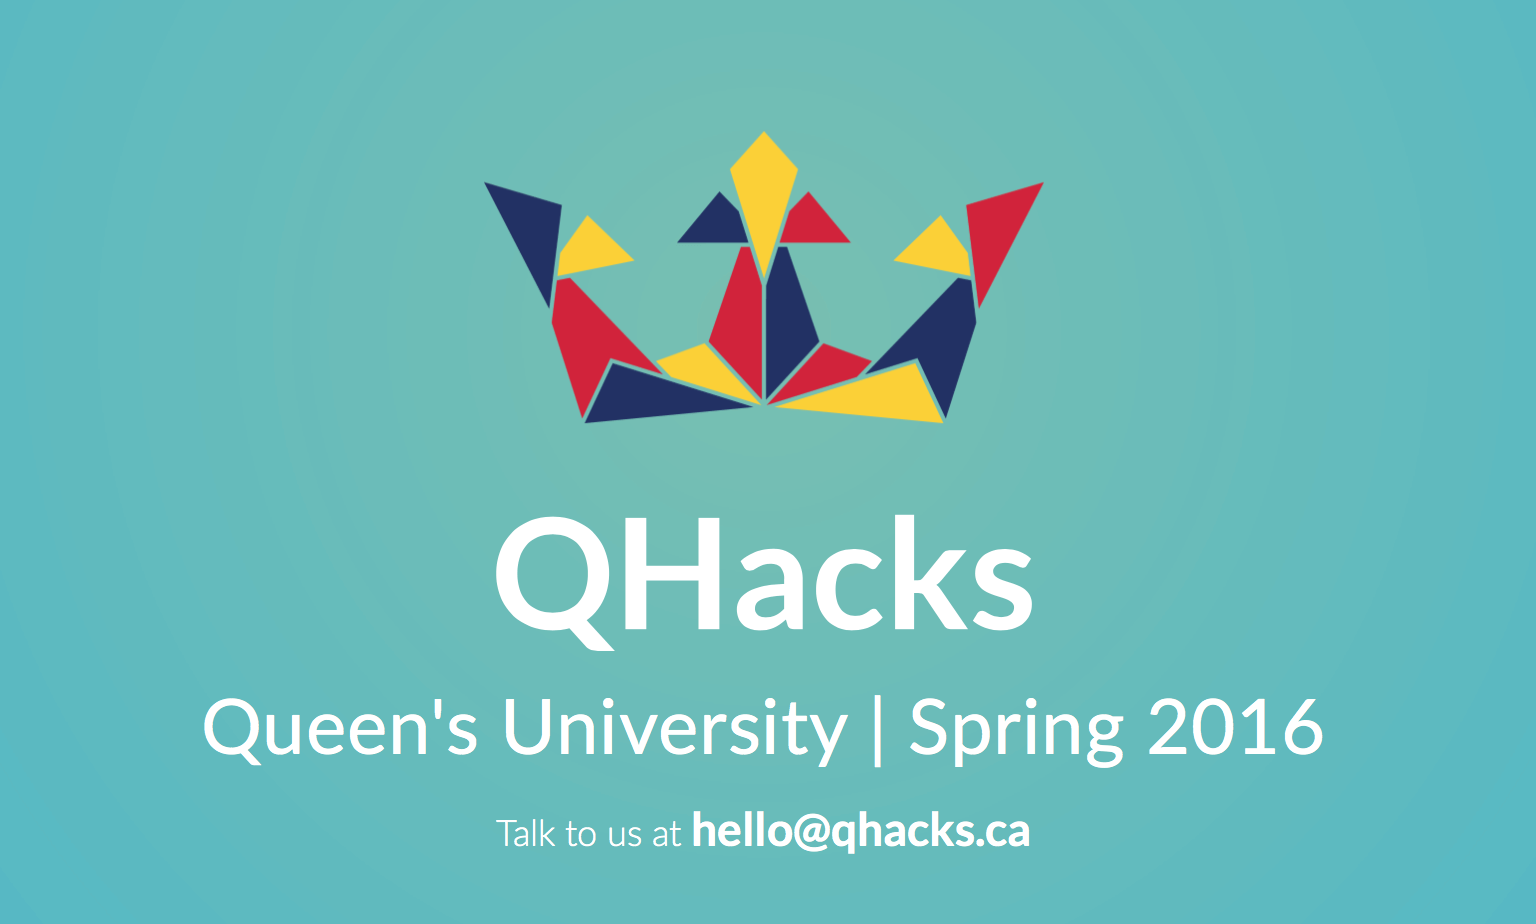
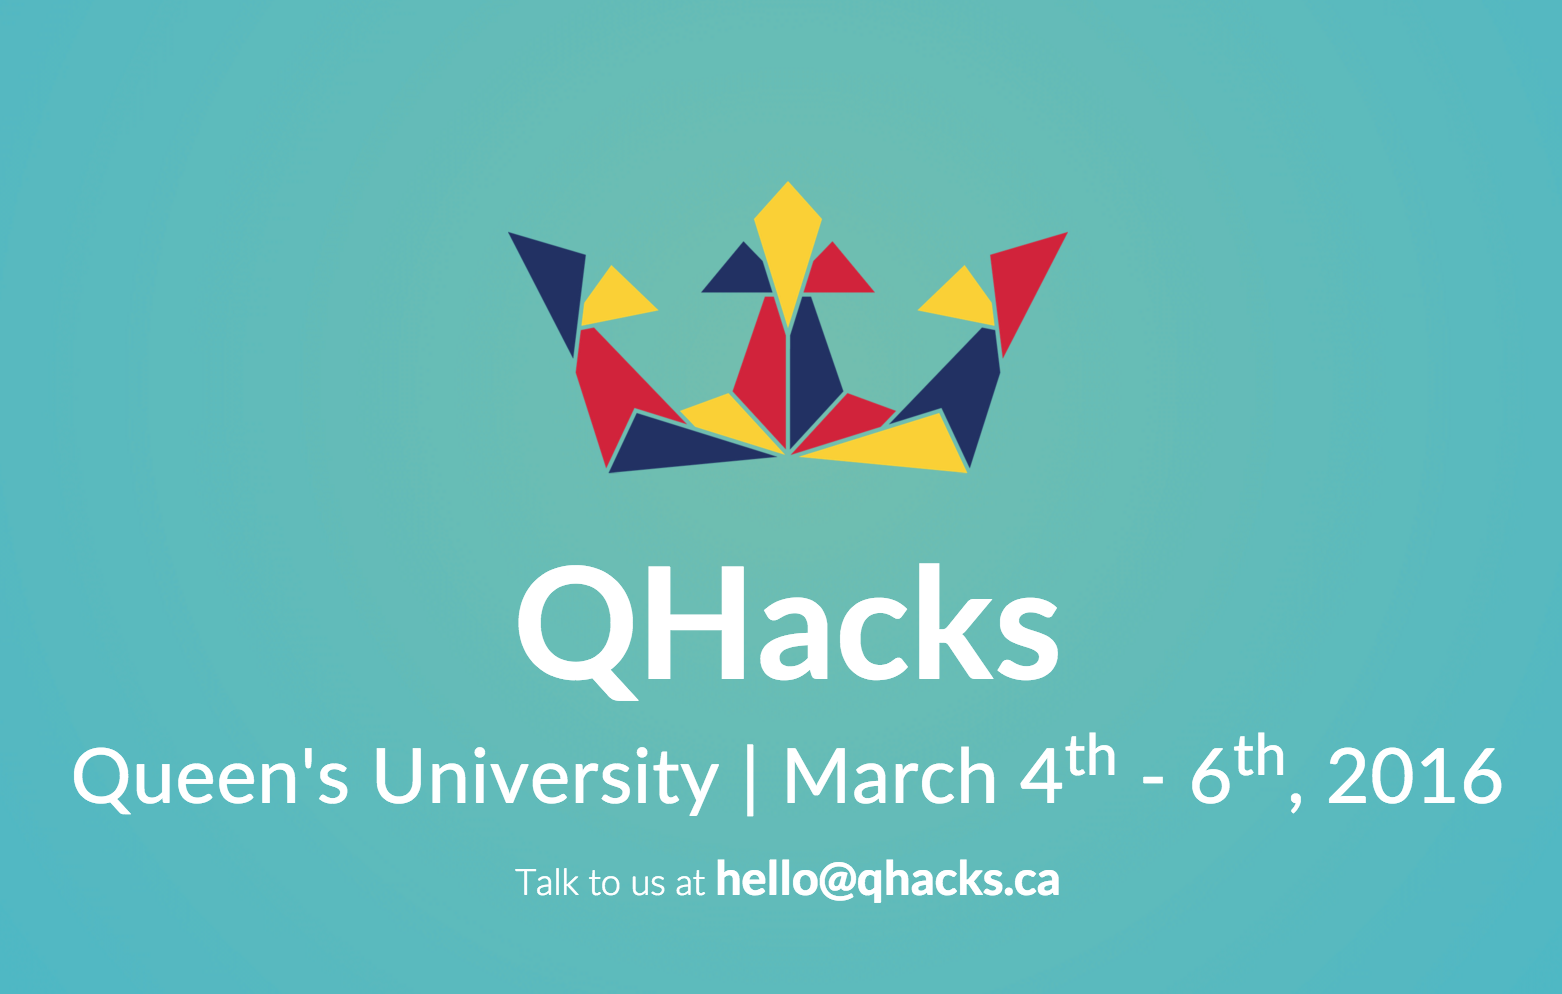
Update keywords, ogimage

diff --git a/index.html b/index.html
@@ -1,10 +1,12 @@
 <!DOCTYPE html>
 <html class="no-js" lang="">
+    <!--  QHACKS MAIN WEBSITE  -->
+    <!--  Author: enoch <et.enoch@gmail.com> -->
     <head>
         <meta charset="utf-8">
         <meta http-equiv="x-ua-compatible" content="ie=edge">
-        <title>QHacks | Spring 2016 Hackathon | Queen's University</title>
-        <meta name="description" content="Queen's Univesity Hackathon Spring 2016">
+        <title>QHacks | Queen's University | March 4th-6th, 2016</title>
+        <meta name="description" content="QHacks is Queen's University's first ever hackathon! QHacks will be hosting a 36 hour hackathon on March 4th - 6th, 2016 at the ILC and other venues on Queen's University.">
         <meta name="keywords" content="Hackathon, Queen's University, Kingston, QHacks, Queensu">
         <meta name="viewport" content="width=device-width, initial-scale=1">
 
